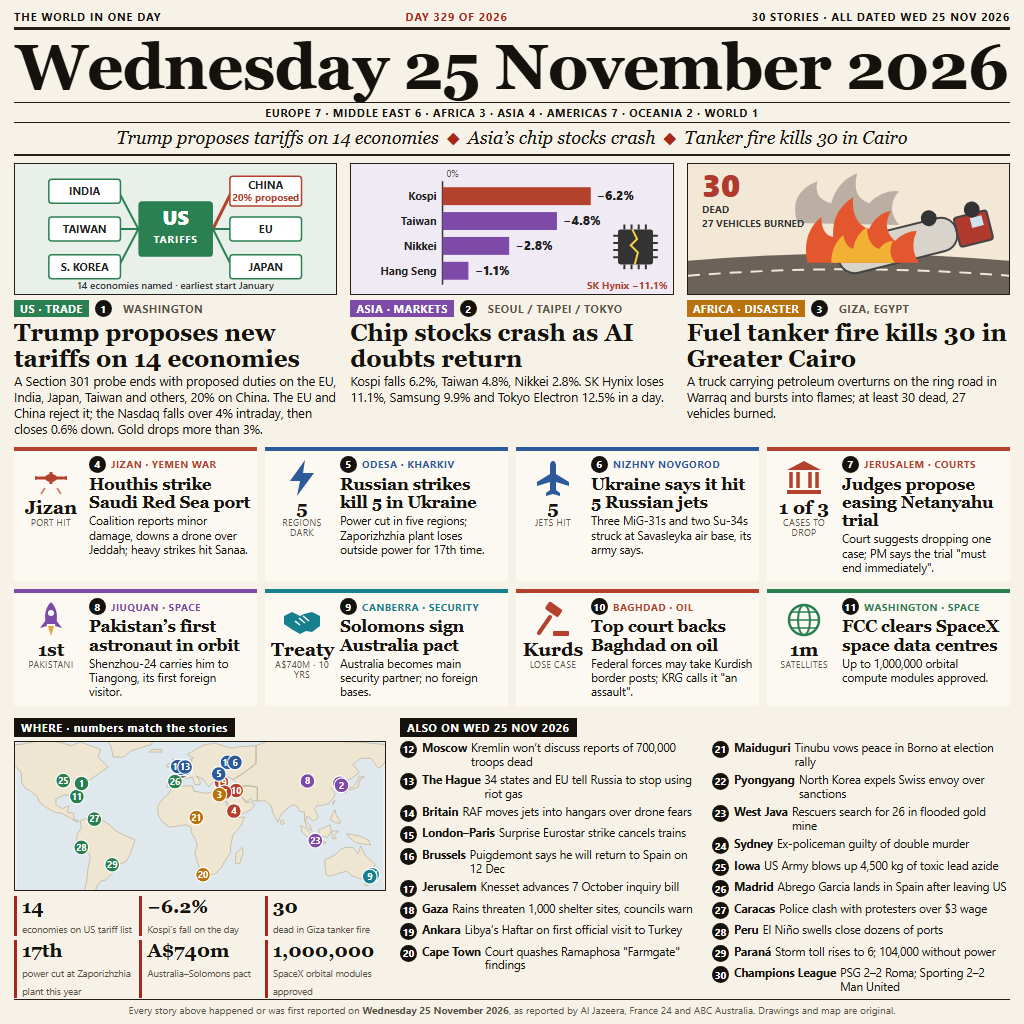
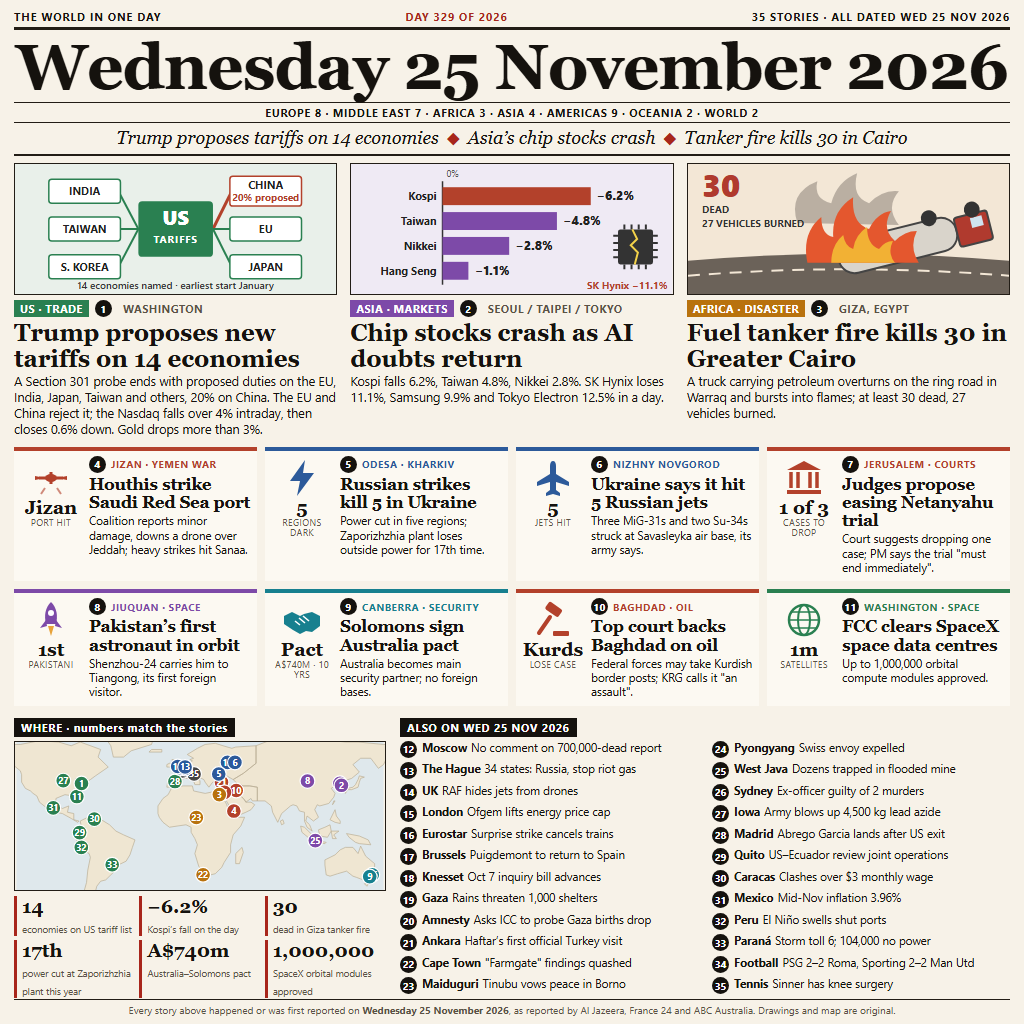
Five more dated stories as one-line briefs (35 in all); tidy the treaty card

diff --git a/src/page.html b/src/page.html
@@ -36,7 +36,7 @@ h1{font-family:Georgia,serif;font-size:64px;line-height:1;text-align:center;lett
 .list div{display:flex;align-items:flex-start;break-inside:avoid;margin-bottom:4.5px}
 .list b{margin-right:4px;white-space:nowrap}
 footer{position:absolute;left:14px;right:14px;bottom:7px;border-top:1px solid #221d16;padding-top:3px;font-size:10px;color:#5a5246;text-align:center}
-</style></head><body><header><div class="top"><span>THE WORLD IN ONE DAY</span><span class="red">DAY 329 OF 2026</span><span>30 STORIES · ALL DATED WED 25 NOV 2026</span></div><h1>Wednesday 25 November 2026</h1><div class="tally">EUROPE 7 · MIDDLE EAST 6 · AFRICA 3 · ASIA 4 · AMERICAS 7 · OCEANIA 2 · WORLD 1</div><div class="lede">Trump proposes tariffs on 14 economies<span class="dia">◆</span>Asia’s chip stocks crash<span class="dia">◆</span>Tanker fire kills 30 in Cairo</div></header><section class="heroes"><article class="hero"><div class="art"><svg viewBox="0 0 323 132" preserveAspectRatio="xMidYMid slice"><rect width="323" height="132" fill="#e9f0ea"/><line x1="199" y1="66" x2="218" y2="28" stroke="#b3412b" stroke-width="3"/><rect x="216" y="13" width="72" height="30" rx="3" fill="#fff" stroke="#b3412b" stroke-width="1.5"/><text x="252" y="26" font-size="11" font-family="Segoe UI,Arial,sans-serif" text-anchor="middle" font-weight="700" fill="#222">CHINA</text><text x="252" y="38" font-size="10" font-family="Segoe UI,Arial,sans-serif" text-anchor="middle" font-weight="700" fill="#b3412b">20% proposed</text><line x1="199" y1="66" x2="218" y2="66" stroke="#2a8051" stroke-width="2"/><rect x="216" y="54" width="72" height="24" rx="3" fill="#fff" stroke="#2a8051" stroke-width="1.5"/><text x="252" y="70" font-size="11" font-family="Segoe UI,Arial,sans-serif" text-anchor="middle" font-weight="700" fill="#222">EU</text><line x1="199" y1="66" x2="218" y2="104" stroke="#2a8051" stroke-width="2"/><rect x="216" y="92" width="72" height="24" rx="3" fill="#fff" stroke="#2a8051" stroke-width="1.5"/><text x="252" y="108" font-size="11" font-family="Segoe UI,Arial,sans-serif" text-anchor="middle" font-weight="700" fill="#222">JAPAN</text><line x1="124" y1="66" x2="104" y2="28" stroke="#2a8051" stroke-width="2"/><rect x="34" y="16" width="72" height="24" rx="3" fill="#fff" stroke="#2a8051" stroke-width="1.5"/><text x="70" y="32" font-size="11" font-family="Segoe UI,Arial,sans-serif" text-anchor="middle" font-weight="700" fill="#222">INDIA</text><line x1="124" y1="66" x2="104" y2="66" stroke="#2a8051" stroke-width="2"/><rect x="34" y="54" width="72" height="24" rx="3" fill="#fff" stroke="#2a8051" stroke-width="1.5"/><text x="70" y="70" font-size="11" font-family="Segoe UI,Arial,sans-serif" text-anchor="middle" font-weight="700" fill="#222">TAIWAN</text><line x1="124" y1="66" x2="104" y2="104" stroke="#2a8051" stroke-width="2"/><rect x="34" y="92" width="72" height="24" rx="3" fill="#fff" stroke="#2a8051" stroke-width="1.5"/><text x="70" y="108" font-size="11" font-family="Segoe UI,Arial,sans-serif" text-anchor="middle" font-weight="700" fill="#222">S. KOREA</text>
+</style></head><body><header><div class="top"><span>THE WORLD IN ONE DAY</span><span class="red">DAY 329 OF 2026</span><span>35 STORIES · ALL DATED WED 25 NOV 2026</span></div><h1>Wednesday 25 November 2026</h1><div class="tally">EUROPE 8 · MIDDLE EAST 7 · AFRICA 3 · ASIA 4 · AMERICAS 9 · OCEANIA 2 · WORLD 2</div><div class="lede">Trump proposes tariffs on 14 economies<span class="dia">◆</span>Asia’s chip stocks crash<span class="dia">◆</span>Tanker fire kills 30 in Cairo</div></header><section class="heroes"><article class="hero"><div class="art"><svg viewBox="0 0 323 132" preserveAspectRatio="xMidYMid slice"><rect width="323" height="132" fill="#e9f0ea"/><line x1="199" y1="66" x2="218" y2="28" stroke="#b3412b" stroke-width="3"/><rect x="216" y="13" width="72" height="30" rx="3" fill="#fff" stroke="#b3412b" stroke-width="1.5"/><text x="252" y="26" font-size="11" font-family="Segoe UI,Arial,sans-serif" text-anchor="middle" font-weight="700" fill="#222">CHINA</text><text x="252" y="38" font-size="10" font-family="Segoe UI,Arial,sans-serif" text-anchor="middle" font-weight="700" fill="#b3412b">20% proposed</text><line x1="199" y1="66" x2="218" y2="66" stroke="#2a8051" stroke-width="2"/><rect x="216" y="54" width="72" height="24" rx="3" fill="#fff" stroke="#2a8051" stroke-width="1.5"/><text x="252" y="70" font-size="11" font-family="Segoe UI,Arial,sans-serif" text-anchor="middle" font-weight="700" fill="#222">EU</text><line x1="199" y1="66" x2="218" y2="104" stroke="#2a8051" stroke-width="2"/><rect x="216" y="92" width="72" height="24" rx="3" fill="#fff" stroke="#2a8051" stroke-width="1.5"/><text x="252" y="108" font-size="11" font-family="Segoe UI,Arial,sans-serif" text-anchor="middle" font-weight="700" fill="#222">JAPAN</text><line x1="124" y1="66" x2="104" y2="28" stroke="#2a8051" stroke-width="2"/><rect x="34" y="16" width="72" height="24" rx="3" fill="#fff" stroke="#2a8051" stroke-width="1.5"/><text x="70" y="32" font-size="11" font-family="Segoe UI,Arial,sans-serif" text-anchor="middle" font-weight="700" fill="#222">INDIA</text><line x1="124" y1="66" x2="104" y2="66" stroke="#2a8051" stroke-width="2"/><rect x="34" y="54" width="72" height="24" rx="3" fill="#fff" stroke="#2a8051" stroke-width="1.5"/><text x="70" y="70" font-size="11" font-family="Segoe UI,Arial,sans-serif" text-anchor="middle" font-weight="700" fill="#222">TAIWAN</text><line x1="124" y1="66" x2="104" y2="104" stroke="#2a8051" stroke-width="2"/><rect x="34" y="92" width="72" height="24" rx="3" fill="#fff" stroke="#2a8051" stroke-width="1.5"/><text x="70" y="108" font-size="11" font-family="Segoe UI,Arial,sans-serif" text-anchor="middle" font-weight="700" fill="#222">S. KOREA</text>
       <rect x="124" y="38" width="75" height="56" rx="4" fill="#2a8051"/>
       <text x="161.5" y="62" font-size="20" font-family="Segoe UI,Arial,sans-serif" text-anchor="middle" font-weight="800" fill="#fff">US</text>
       <text x="161.5" y="80" font-size="10" font-family="Segoe UI,Arial,sans-serif" text-anchor="middle" font-weight="700" fill="#fff" letter-spacing="1">TARIFFS</text>
@@ -54,4 +54,4 @@ footer{position:absolute;left:14px;right:14px;bottom:7px;border-top:1px solid #2
     <path d="M144 100 q0 -18 12 -28 q2 12 10 14 q2 -14 14 -22 q0 18 12 22 q6 -8 14 -8 q-6 12 2 22z" fill="#f2b134"/>
     <text x="14" y="34" font-size="32" font-family="Segoe UI,Arial,sans-serif"  font-family="Georgia,serif" font-weight="800" fill="#b03a2e">30</text>
     <text x="14" y="50" font-size="10" font-family="Segoe UI,Arial,sans-serif" font-weight="700" fill="#333">DEAD</text>
-    <text x="14" y="64" font-size="10" font-family="Segoe UI,Arial,sans-serif" font-weight="700" fill="#333">27 VEHICLES BURNED</text></svg></div><div class="kick"><span class="tag" style="background:#b8720e">AFRICA · DISASTER</span><i class="n">3</i><span class="pl">GIZA, EGYPT</span></div><h2>Fuel tanker fire kills 30 in Greater Cairo</h2><p>A truck carrying petroleum overturns on the ring road in Warraq and bursts into flames; at least 30 dead, 27 vehicles burned.</p></article></section><section class="cards"><article class="card" style="border-top-color:#b3412b"><div class="ic"><svg viewBox="0 0 40 40"><path d="M8 20h24M20 14v12" stroke="#b3412b" stroke-width="3"/><path d="M4 18l10 2-10 2zM36 18l-10 2 10 2z" fill="#b3412b"/><ellipse cx="20" cy="20" rx="6" ry="4" fill="#b3412b"/><path d="M14 30l-4 6M26 30l4 6" stroke="#b3412b" stroke-width="2" opacity=".6"/></svg><b>Jizan</b><small>port hit</small></div><div><div class="k" style="color:#b3412b"><i class="n">4</i>Jizan · Yemen war</div><h3>Houthis strike Saudi Red Sea port</h3><p>Coalition reports minor damage, downs a drone over Jeddah; heavy strikes hit Sanaa.</p></div></article><article class="card" style="border-top-color:#2c5a9a"><div class="ic"><svg viewBox="0 0 40 40"><path d="M23 2L8 23h10l-3 15 17-23H21z" fill="#2c5a9a"/></svg><b>5</b><small>regions dark</small></div><div><div class="k" style="color:#2c5a9a"><i class="n">5</i>Odesa · Kharkiv</div><h3>Russian strikes kill 5 in Ukraine</h3><p>Power cut in five regions; Zaporizhzhia plant loses outside power for 17th time.</p></div></article><article class="card" style="border-top-color:#2c5a9a"><div class="ic"><svg viewBox="0 0 40 40"><path d="M20 3c2 0 3 2 3 5v8l13 8v4l-13-4v8l4 3v3l-7-2-7 2v-3l4-3v-8L4 28v-4l13-8V8c0-3 1-5 3-5z" fill="#2c5a9a"/></svg><b>5</b><small>jets hit</small></div><div><div class="k" style="color:#2c5a9a"><i class="n">6</i>Nizhny Novgorod</div><h3>Ukraine says it hit 5 Russian jets</h3><p>Three MiG-31s and two Su-34s struck at Savasleyka air base, its army says.</p></div></article><article class="card" style="border-top-color:#b3412b"><div class="ic"><svg viewBox="0 0 40 40"><path d="M20 3L3 12h34z" fill="#b3412b"/><path d="M7 14v16M14 14v16M26 14v16M33 14v16" stroke="#b3412b" stroke-width="3.5"/><path d="M3 32h34v4H3z" fill="#b3412b"/></svg><b>1 of 3</b><small>cases to drop</small></div><div><div class="k" style="color:#b3412b"><i class="n">7</i>Jerusalem · Courts</div><h3>Judges propose easing Netanyahu trial</h3><p>Court suggests dropping one case; PM says the trial "must end immediately".</p></div></article><article class="card" style="border-top-color:#7d4aa8"><div class="ic"><svg viewBox="0 0 40 40"><path d="M20 2c6 6 7 14 5 22h-10c-2-8-1-16 5-22z" fill="#7d4aa8"/><circle cx="20" cy="13" r="3" fill="#fff"/><path d="M15 20l-6 8 7-2zM25 20l6 8-7-2z" fill="#7d4aa8"/><path d="M17 26l3 10 3-10z" fill="#e8a33a"/></svg><b>1st</b><small>Pakistani</small></div><div><div class="k" style="color:#7d4aa8"><i class="n">8</i>Jiuquan · Space</div><h3>Pakistan’s first astronaut in orbit</h3><p>Shenzhou-24 carries him to Tiangong, its first foreign visitor.</p></div></article><article class="card" style="border-top-color:#17808f"><div class="ic"><svg viewBox="0 0 40 40"><path d="M2 16l8-4 8 4 4-2 8-2 8 4v10l-8 6-6-1-6 3-7-4-9-6z" fill="#17808f"/><path d="M13 21l5 4M17 18l6 5M21 16l6 5" stroke="#fff" stroke-width="1.6"/></svg><b>Treaty</b><small>A$740m · 10 yrs</small></div><div><div class="k" style="color:#17808f"><i class="n">9</i>Canberra · Security</div><h3>Solomons sign Australia pact</h3><p>Australia becomes main security partner; no foreign bases.</p></div></article><article class="card" style="border-top-color:#b3412b"><div class="ic"><svg viewBox="0 0 40 40"><rect x="13" y="5" width="16" height="9" rx="2" transform="rotate(35 21 9)" fill="#b3412b"/><path d="M17 17L6 33" stroke="#b3412b" stroke-width="4" stroke-linecap="round"/><rect x="20" y="31" width="16" height="5" rx="1" fill="#b3412b"/></svg><b>Kurds</b><small>lose case</small></div><div><div class="k" style="color:#b3412b"><i class="n">10</i>Baghdad · Oil</div><h3>Top court backs Baghdad on oil</h3><p>Federal forces may take Kurdish border posts; KRG calls it "an assault".</p></div></article><article class="card" style="border-top-color:#2a8051"><div class="ic"><svg viewBox="0 0 40 40"><circle cx="20" cy="20" r="15" fill="none" stroke="#2a8051" stroke-width="2.5"/><ellipse cx="20" cy="20" rx="6" ry="15" fill="none" stroke="#2a8051" stroke-width="2"/><path d="M5 20h30M8 12h24M8 28h24" stroke="#2a8051" stroke-width="1.6"/></svg><b>1m</b><small>satellites</small></div><div><div class="k" style="color:#2a8051"><i class="n">11</i>Washington · Space</div><h3>FCC clears SpaceX space data centres</h3><p>Up to 1,000,000 orbital compute modules approved.</p></div></article></section><section class="low"><div class="mapbox"><div class="bh">WHERE · numbers match the stories</div><svg viewBox="0 0 372 150" width="372" height="150"><rect width="372" height="150" fill="#dfe8ec"/><path d="M-51.7,7.6L-43.9,2.5L-15.5,2.5L3.9,2.5L23.3,-1.3L42.6,0.0L55.5,3.8L64.6,0.0L85.3,7.6L82.7,15.3L93.0,25.4L80.1,34.3L74.9,38.1L67.2,43.2L67.2,47.0L60.7,52.1L62.0,58.5L59.4,59.7L58.1,54.7L49.1,53.4L40.0,57.2L40.0,63.6L46.5,67.4L53.0,64.8L51.7,71.2L58.1,72.5L58.1,78.8L63.3,80.1L62.0,81.4L55.5,77.5L46.5,72.5L38.8,71.2L29.7,66.1L23.3,61.0L20.7,54.7L16.8,52.1L14.2,49.6L9.0,47.0L5.2,40.7L5.2,33.1L3.9,29.2L-3.9,22.9L-11.6,17.8L-24.5,14.0L-33.6,17.8L-41.3,17.8L-47.8,12.7ZM98.2,15.3L108.5,15.3L116.3,8.9L136.9,2.5L139.5,-6.4L126.6,-14.0L94.3,-12.7L77.5,-6.4L90.4,-3.8L95.6,3.8ZM64.6,80.1L72.3,76.3L84.0,77.5L94.3,83.9L100.8,90.3L108.5,94.1L120.1,99.2L117.5,106.8L115.0,114.4L111.1,120.8L103.3,124.6L102.0,128.4L95.6,134.7L90.4,139.8L85.3,141.1L81.4,146.2L80.1,151.3L76.2,156.4L77.5,161.4L72.3,158.9L68.5,151.3L71.0,142.4L72.3,129.7L74.9,116.9L73.6,113.1L67.2,109.3L60.7,99.2L62.0,92.8L65.9,86.4ZM152.4,45.8L153.7,36.9L162.8,36.9L164.0,33.1L160.2,30.5L167.9,26.7L171.8,24.2L175.7,21.6L178.3,19.1L175.7,17.8L179.5,16.5L173.1,12.7L183.4,6.4L191.2,2.5L201.5,1.3L209.3,3.8L218.3,6.4L222.2,5.1L242.8,3.8L242.8,21.6L229.9,31.8L219.6,38.1L213.1,34.3L204.1,33.1L202.8,39.4L198.9,40.7L195.0,45.8L191.2,40.7L189.9,38.1L182.1,34.3L186.0,39.4L186.0,43.2L180.8,43.2L178.3,35.6L173.1,36.9L169.2,36.9L165.3,43.2L158.9,45.8ZM158.9,28.0L166.6,26.7L167.9,24.2L162.8,20.3L161.5,17.8L157.6,17.8L158.9,21.6L161.5,22.9L158.9,25.4ZM152.4,25.4L157.6,25.4L157.6,21.6L155.0,21.6L152.4,22.9ZM134.3,10.2L147.3,10.2L147.3,7.6L136.9,7.6ZM143.4,72.5L143.4,64.8L148.5,57.2L153.7,53.4L157.6,45.8L169.2,44.5L178.3,44.5L179.5,49.6L191.2,52.1L197.6,50.8L206.7,52.1L209.3,55.9L213.1,63.6L215.7,71.2L220.9,76.3L231.2,76.3L227.3,85.2L219.6,94.1L217.0,104.2L217.0,111.9L210.5,122.0L208.0,127.1L201.5,133.5L191.2,136.0L188.6,132.2L184.7,125.8L180.8,113.1L183.4,104.2L180.8,97.9L177.0,91.5L177.0,86.4L171.8,83.9L162.8,85.2L155.0,86.4L148.5,81.4L144.7,76.3ZM222.2,123.3L226.0,123.3L229.9,111.9L228.6,106.8L222.2,113.1ZM209.3,55.9L210.5,50.8L211.8,45.8L219.6,44.5L223.5,41.9L229.9,44.5L236.4,44.5L244.1,45.8L244.1,59.7L239.0,59.7L237.7,57.2L232.5,61.0L231.2,58.5L227.3,54.7L229.9,57.2L232.5,61.0L237.7,61.0L241.5,63.6L237.7,68.6L232.5,71.2L223.5,75.0L220.9,72.5L215.7,64.8L210.5,55.9ZM219.6,38.1L229.9,31.8L242.8,21.6L242.8,3.8L255.8,-1.3L268.7,-1.3L294.5,-6.4L310.0,-2.5L333.3,0.0L346.2,0.0L372.0,2.5L384.9,2.5L397.8,5.1L397.8,8.9L387.5,12.7L375.9,15.3L372.0,22.9L366.8,26.7L359.1,16.5L348.8,16.5L341.0,22.9L347.5,30.5L339.7,36.9L332.0,39.4L332.0,47.0L328.1,47.0L328.1,41.9L321.6,40.7L322.9,44.5L319.0,47.0L322.9,52.1L321.6,55.9L316.5,62.3L307.4,64.8L304.8,63.6L302.3,68.6L306.1,76.3L301.0,80.1L294.5,75.0L293.2,80.1L297.1,83.9L299.7,90.3L294.5,86.4L291.9,80.1L291.9,71.2L286.8,69.9L284.2,64.8L280.3,63.6L277.7,64.8L268.7,72.5L264.8,81.4L259.6,71.2L258.3,64.8L251.9,59.7L244.1,59.7L244.1,45.8L236.4,44.5L229.9,44.5L223.5,41.9ZM333.3,52.1L335.8,48.3L339.7,48.3L346.2,45.8L347.5,40.7L348.8,36.9L352.6,35.6L347.5,34.3L346.2,38.1L343.6,43.2L341.0,45.8L335.8,47.0L333.3,48.3ZM268.7,83.9L271.3,82.6L270.0,78.8L267.4,80.1ZM320.3,63.6L322.9,59.7L321.6,59.7ZM288.0,85.2L291.9,86.4L299.7,94.1L302.3,99.2L297.1,97.9L289.3,91.5ZM301.0,99.2L313.9,101.7L312.6,103.0L302.3,101.7ZM306.1,89.0L312.6,86.4L317.8,83.9L319.0,90.3L315.2,96.6L307.4,95.3ZM319.0,90.3L326.8,90.3L321.6,94.1L324.2,97.9L320.3,97.9ZM317.8,78.8L322.9,68.6L324.2,75.0L328.1,80.1L328.1,82.6L322.9,81.4ZM334.5,92.8L347.5,95.3L356.5,99.2L359.1,104.2L347.5,103.0L343.6,101.7L337.1,96.6ZM312.6,119.5L312.6,124.6L313.9,134.7L317.8,136.0L325.5,133.5L334.5,130.9L341.0,136.0L344.9,137.3L351.3,139.8L356.5,139.8L359.1,137.3L363.0,129.7L363.0,123.3L353.9,115.7L348.8,105.5L346.2,113.1L341.0,106.8L333.3,106.8L328.1,109.3L322.9,114.4ZM352.6,143.6L356.5,143.6L355.2,146.2ZM387.5,134.7L391.4,138.6L395.3,139.8L391.4,143.6L387.5,143.6L388.8,139.8ZM387.5,143.6L390.1,144.9L386.2,148.7L381.0,150.0L384.9,146.2Z" fill="#efe6d2" stroke="#b9ad94" stroke-width=".7"/><g transform="translate(168.2,29.4)"><circle r="7.5" fill="#444" stroke="#fff" stroke-width="1.2"/><text y="3.3" text-anchor="middle" font-size="9" font-weight="700" fill="#fff">30</text></g><g transform="translate(97.0,124.4)"><circle r="7.5" fill="#2a8051" stroke="#fff" stroke-width="1.2"/><text y="3.3" text-anchor="middle" font-size="9" font-weight="700" fill="#fff">29</text></g><g transform="translate(65.7,106.8)"><circle r="7.5" fill="#2a8051" stroke="#fff" stroke-width="1.2"/><text y="3.3" text-anchor="middle" font-size="9" font-weight="700" fill="#fff">28</text></g><g transform="translate(78.9,78.2)"><circle r="7.5" fill="#2a8051" stroke="#fff" stroke-width="1.2"/><text y="3.3" text-anchor="middle" font-size="9" font-weight="700" fill="#fff">27</text></g><g transform="translate(160.6,40.1)"><circle r="7.5" fill="#2a8051" stroke="#fff" stroke-width="1.2"/><text y="3.3" text-anchor="middle" font-size="9" font-weight="700" fill="#fff">26</text></g><g transform="translate(47.4,39.2)"><circle r="7.5" fill="#2a8051" stroke="#fff" stroke-width="1.2"/><text y="3.3" text-anchor="middle" font-size="9" font-weight="700" fill="#fff">25</text></g><g transform="translate(360.6,134.6)"><circle r="7.5" fill="#17808f" stroke="#fff" stroke-width="1.2"/><text y="3.3" text-anchor="middle" font-size="9" font-weight="700" fill="#fff">24</text></g><g transform="translate(302.9,99.9)"><circle r="7.5" fill="#7d4aa8" stroke="#fff" stroke-width="1.2"/><text y="3.3" text-anchor="middle" font-size="9" font-weight="700" fill="#fff">23</text></g><g transform="translate(327.8,41.9)"><circle r="7.5" fill="#7d4aa8" stroke="#fff" stroke-width="1.2"/><text y="3.3" text-anchor="middle" font-size="9" font-weight="700" fill="#fff">22</text></g><g transform="translate(182.3,76.5)"><circle r="7.5" fill="#b8720e" stroke="#fff" stroke-width="1.2"/><text y="3.3" text-anchor="middle" font-size="9" font-weight="700" fill="#fff">21</text></g><g transform="translate(189.1,134.6)"><circle r="7.5" fill="#b8720e" stroke="#fff" stroke-width="1.2"/><text y="3.3" text-anchor="middle" font-size="9" font-weight="700" fill="#fff">20</text></g><g transform="translate(207.8,40.8)"><circle r="7.5" fill="#b3412b" stroke="#fff" stroke-width="1.2"/><text y="3.3" text-anchor="middle" font-size="9" font-weight="700" fill="#fff">19</text></g><g transform="translate(209.8,51.5)"><circle r="7.5" fill="#b3412b" stroke="#fff" stroke-width="1.2"/><text y="3.3" text-anchor="middle" font-size="9" font-weight="700" fill="#fff">18</text></g><g transform="translate(210.8,51.1)"><circle r="7.5" fill="#b3412b" stroke="#fff" stroke-width="1.2"/><text y="3.3" text-anchor="middle" font-size="9" font-weight="700" fill="#fff">17</text></g><g transform="translate(171.0,26.9)"><circle r="7.5" fill="#2c5a9a" stroke="#fff" stroke-width="1.2"/><text y="3.3" text-anchor="middle" font-size="9" font-weight="700" fill="#fff">16</text></g><g transform="translate(167.3,26.7)"><circle r="7.5" fill="#2c5a9a" stroke="#fff" stroke-width="1.2"/><text y="3.3" text-anchor="middle" font-size="9" font-weight="700" fill="#fff">15</text></g><g transform="translate(163.4,24.8)"><circle r="7.5" fill="#2c5a9a" stroke="#fff" stroke-width="1.2"/><text y="3.3" text-anchor="middle" font-size="9" font-weight="700" fill="#fff">14</text></g><g transform="translate(170.9,25.3)"><circle r="7.5" fill="#2c5a9a" stroke="#fff" stroke-width="1.2"/><text y="3.3" text-anchor="middle" font-size="9" font-weight="700" fill="#fff">13</text></g><g transform="translate(213.9,20.7)"><circle r="7.5" fill="#2c5a9a" stroke="#fff" stroke-width="1.2"/><text y="3.3" text-anchor="middle" font-size="9" font-weight="700" fill="#fff">12</text></g><g transform="translate(61.2,55.3)"><circle r="7.5" fill="#2a8051" stroke="#fff" stroke-width="1.2"/><text y="3.3" text-anchor="middle" font-size="9" font-weight="700" fill="#fff">11</text></g><g transform="translate(222.7,49.2)"><circle r="7.5" fill="#b3412b" stroke="#fff" stroke-width="1.2"/><text y="3.3" text-anchor="middle" font-size="9" font-weight="700" fill="#fff">10</text></g><g transform="translate(358.0,136.4)"><circle r="7.5" fill="#17808f" stroke="#fff" stroke-width="1.2"/><text y="3.3" text-anchor="middle" font-size="9" font-weight="700" fill="#fff">9</text></g><g transform="translate(294.9,39.5)"><circle r="7.5" fill="#7d4aa8" stroke="#fff" stroke-width="1.2"/><text y="3.3" text-anchor="middle" font-size="9" font-weight="700" fill="#fff">8</text></g><g transform="translate(210.8,51.1)"><circle r="7.5" fill="#b3412b" stroke="#fff" stroke-width="1.2"/><text y="3.3" text-anchor="middle" font-size="9" font-weight="700" fill="#fff">7</text></g><g transform="translate(221.4,20.7)"><circle r="7.5" fill="#2c5a9a" stroke="#fff" stroke-width="1.2"/><text y="3.3" text-anchor="middle" font-size="9" font-weight="700" fill="#fff">6</text></g><g transform="translate(205.0,32.4)"><circle r="7.5" fill="#2c5a9a" stroke="#fff" stroke-width="1.2"/><text y="3.3" text-anchor="middle" font-size="9" font-weight="700" fill="#fff">5</text></g><g transform="translate(220.3,70.0)"><circle r="7.5" fill="#b3412b" stroke="#fff" stroke-width="1.2"/><text y="3.3" text-anchor="middle" font-size="9" font-weight="700" fill="#fff">4</text></g><g transform="translate(205.6,53.3)"><circle r="7.5" fill="#b8720e" stroke="#fff" stroke-width="1.2"/><text y="3.3" text-anchor="middle" font-size="9" font-weight="700" fill="#fff">3</text></g><g transform="translate(329.4,43.9)"><circle r="7.5" fill="#7d4aa8" stroke="#fff" stroke-width="1.2"/><text y="3.3" text-anchor="middle" font-size="9" font-weight="700" fill="#fff">2</text></g><g transform="translate(65.9,42.1)"><circle r="7.5" fill="#2a8051" stroke="#fff" stroke-width="1.2"/><text y="3.3" text-anchor="middle" font-size="9" font-weight="700" fill="#fff">1</text></g></svg><div class="nums"><div><b>14</b><span>economies on US tariff list</span></div><div><b>−6.2%</b><span>Kospi’s fall on the day</span></div><div><b>30</b><span>dead in Giza tanker fire</span></div><div><b>17th</b><span>power cut at Zaporizhzhia plant this year</span></div><div><b>A$740m</b><span>Australia–Solomons pact</span></div><div><b>1,000,000</b><span>SpaceX orbital modules approved</span></div></div></div><div class="briefs"><div class="bh">ALSO ON WED 25 NOV 2026</div><div class="list"><div><i class="n">12</i><b>Moscow</b> Kremlin won’t discuss reports of 700,000 troops dead</div><div><i class="n">13</i><b>The Hague</b> 34 states and EU tell Russia to stop using riot gas</div><div><i class="n">14</i><b>Britain</b> RAF moves jets into hangars over drone fears</div><div><i class="n">15</i><b>London–Paris</b> Surprise Eurostar strike cancels trains</div><div><i class="n">16</i><b>Brussels</b> Puigdemont says he will return to Spain on 12 Dec</div><div><i class="n">17</i><b>Jerusalem</b> Knesset advances 7 October inquiry bill</div><div><i class="n">18</i><b>Gaza</b> Rains threaten 1,000 shelter sites, councils warn</div><div><i class="n">19</i><b>Ankara</b> Libya’s Haftar on first official visit to Turkey</div><div><i class="n">20</i><b>Cape Town</b> Court quashes Ramaphosa "Farmgate" findings</div><div><i class="n">21</i><b>Maiduguri</b> Tinubu vows peace in Borno at election rally</div><div><i class="n">22</i><b>Pyongyang</b> North Korea expels Swiss envoy over sanctions</div><div><i class="n">23</i><b>West Java</b> Rescuers search for 26 in flooded gold mine</div><div><i class="n">24</i><b>Sydney</b> Ex-policeman guilty of double murder</div><div><i class="n">25</i><b>Iowa</b> US Army blows up 4,500 kg of toxic lead azide</div><div><i class="n">26</i><b>Madrid</b> Abrego Garcia lands in Spain after leaving US</div><div><i class="n">27</i><b>Caracas</b> Police clash with protesters over $3 wage</div><div><i class="n">28</i><b>Peru</b> El Niño swells close dozens of ports</div><div><i class="n">29</i><b>Paraná</b> Storm toll rises to 6; 104,000 without power</div><div><i class="n">30</i><b>Champions League</b> PSG 2–2 Roma; Sporting 2–2 Man United</div></div></div></section><footer>Every story above happened or was first reported on <b>Wednesday 25 November 2026</b>, as reported by Al Jazeera, France 24 and ABC Australia. Drawings and map are original.</footer></body></html>
+    <text x="14" y="64" font-size="10" font-family="Segoe UI,Arial,sans-serif" font-weight="700" fill="#333">27 VEHICLES BURNED</text></svg></div><div class="kick"><span class="tag" style="background:#b8720e">AFRICA · DISASTER</span><i class="n">3</i><span class="pl">GIZA, EGYPT</span></div><h2>Fuel tanker fire kills 30 in Greater Cairo</h2><p>A truck carrying petroleum overturns on the ring road in Warraq and bursts into flames; at least 30 dead, 27 vehicles burned.</p></article></section><section class="cards"><article class="card" style="border-top-color:#b3412b"><div class="ic"><svg viewBox="0 0 40 40"><path d="M8 20h24M20 14v12" stroke="#b3412b" stroke-width="3"/><path d="M4 18l10 2-10 2zM36 18l-10 2 10 2z" fill="#b3412b"/><ellipse cx="20" cy="20" rx="6" ry="4" fill="#b3412b"/><path d="M14 30l-4 6M26 30l4 6" stroke="#b3412b" stroke-width="2" opacity=".6"/></svg><b>Jizan</b><small>port hit</small></div><div><div class="k" style="color:#b3412b"><i class="n">4</i>Jizan · Yemen war</div><h3>Houthis strike Saudi Red Sea port</h3><p>Coalition reports minor damage, downs a drone over Jeddah; heavy strikes hit Sanaa.</p></div></article><article class="card" style="border-top-color:#2c5a9a"><div class="ic"><svg viewBox="0 0 40 40"><path d="M23 2L8 23h10l-3 15 17-23H21z" fill="#2c5a9a"/></svg><b>5</b><small>regions dark</small></div><div><div class="k" style="color:#2c5a9a"><i class="n">5</i>Odesa · Kharkiv</div><h3>Russian strikes kill 5 in Ukraine</h3><p>Power cut in five regions; Zaporizhzhia plant loses outside power for 17th time.</p></div></article><article class="card" style="border-top-color:#2c5a9a"><div class="ic"><svg viewBox="0 0 40 40"><path d="M20 3c2 0 3 2 3 5v8l13 8v4l-13-4v8l4 3v3l-7-2-7 2v-3l4-3v-8L4 28v-4l13-8V8c0-3 1-5 3-5z" fill="#2c5a9a"/></svg><b>5</b><small>jets hit</small></div><div><div class="k" style="color:#2c5a9a"><i class="n">6</i>Nizhny Novgorod</div><h3>Ukraine says it hit 5 Russian jets</h3><p>Three MiG-31s and two Su-34s struck at Savasleyka air base, its army says.</p></div></article><article class="card" style="border-top-color:#b3412b"><div class="ic"><svg viewBox="0 0 40 40"><path d="M20 3L3 12h34z" fill="#b3412b"/><path d="M7 14v16M14 14v16M26 14v16M33 14v16" stroke="#b3412b" stroke-width="3.5"/><path d="M3 32h34v4H3z" fill="#b3412b"/></svg><b>1 of 3</b><small>cases to drop</small></div><div><div class="k" style="color:#b3412b"><i class="n">7</i>Jerusalem · Courts</div><h3>Judges propose easing Netanyahu trial</h3><p>Court suggests dropping one case; PM says the trial "must end immediately".</p></div></article><article class="card" style="border-top-color:#7d4aa8"><div class="ic"><svg viewBox="0 0 40 40"><path d="M20 2c6 6 7 14 5 22h-10c-2-8-1-16 5-22z" fill="#7d4aa8"/><circle cx="20" cy="13" r="3" fill="#fff"/><path d="M15 20l-6 8 7-2zM25 20l6 8-7-2z" fill="#7d4aa8"/><path d="M17 26l3 10 3-10z" fill="#e8a33a"/></svg><b>1st</b><small>Pakistani</small></div><div><div class="k" style="color:#7d4aa8"><i class="n">8</i>Jiuquan · Space</div><h3>Pakistan’s first astronaut in orbit</h3><p>Shenzhou-24 carries him to Tiangong, its first foreign visitor.</p></div></article><article class="card" style="border-top-color:#17808f"><div class="ic"><svg viewBox="0 0 40 40"><path d="M2 16l8-4 8 4 4-2 8-2 8 4v10l-8 6-6-1-6 3-7-4-9-6z" fill="#17808f"/><path d="M13 21l5 4M17 18l6 5M21 16l6 5" stroke="#fff" stroke-width="1.6"/></svg><b>Pact</b><small>A$740m · 10 yrs</small></div><div><div class="k" style="color:#17808f"><i class="n">9</i>Canberra · Security</div><h3>Solomons sign Australia pact</h3><p>Australia becomes main security partner; no foreign bases.</p></div></article><article class="card" style="border-top-color:#b3412b"><div class="ic"><svg viewBox="0 0 40 40"><rect x="13" y="5" width="16" height="9" rx="2" transform="rotate(35 21 9)" fill="#b3412b"/><path d="M17 17L6 33" stroke="#b3412b" stroke-width="4" stroke-linecap="round"/><rect x="20" y="31" width="16" height="5" rx="1" fill="#b3412b"/></svg><b>Kurds</b><small>lose case</small></div><div><div class="k" style="color:#b3412b"><i class="n">10</i>Baghdad · Oil</div><h3>Top court backs Baghdad on oil</h3><p>Federal forces may take Kurdish border posts; KRG calls it "an assault".</p></div></article><article class="card" style="border-top-color:#2a8051"><div class="ic"><svg viewBox="0 0 40 40"><circle cx="20" cy="20" r="15" fill="none" stroke="#2a8051" stroke-width="2.5"/><ellipse cx="20" cy="20" rx="6" ry="15" fill="none" stroke="#2a8051" stroke-width="2"/><path d="M5 20h30M8 12h24M8 28h24" stroke="#2a8051" stroke-width="1.6"/></svg><b>1m</b><small>satellites</small></div><div><div class="k" style="color:#2a8051"><i class="n">11</i>Washington · Space</div><h3>FCC clears SpaceX space data centres</h3><p>Up to 1,000,000 orbital compute modules approved.</p></div></article></section><section class="low"><div class="mapbox"><div class="bh">WHERE · numbers match the stories</div><svg viewBox="0 0 372 150" width="372" height="150"><rect width="372" height="150" fill="#dfe8ec"/><path d="M-51.7,7.6L-43.9,2.5L-15.5,2.5L3.9,2.5L23.3,-1.3L42.6,0.0L55.5,3.8L64.6,0.0L85.3,7.6L82.7,15.3L93.0,25.4L80.1,34.3L74.9,38.1L67.2,43.2L67.2,47.0L60.7,52.1L62.0,58.5L59.4,59.7L58.1,54.7L49.1,53.4L40.0,57.2L40.0,63.6L46.5,67.4L53.0,64.8L51.7,71.2L58.1,72.5L58.1,78.8L63.3,80.1L62.0,81.4L55.5,77.5L46.5,72.5L38.8,71.2L29.7,66.1L23.3,61.0L20.7,54.7L16.8,52.1L14.2,49.6L9.0,47.0L5.2,40.7L5.2,33.1L3.9,29.2L-3.9,22.9L-11.6,17.8L-24.5,14.0L-33.6,17.8L-41.3,17.8L-47.8,12.7ZM98.2,15.3L108.5,15.3L116.3,8.9L136.9,2.5L139.5,-6.4L126.6,-14.0L94.3,-12.7L77.5,-6.4L90.4,-3.8L95.6,3.8ZM64.6,80.1L72.3,76.3L84.0,77.5L94.3,83.9L100.8,90.3L108.5,94.1L120.1,99.2L117.5,106.8L115.0,114.4L111.1,120.8L103.3,124.6L102.0,128.4L95.6,134.7L90.4,139.8L85.3,141.1L81.4,146.2L80.1,151.3L76.2,156.4L77.5,161.4L72.3,158.9L68.5,151.3L71.0,142.4L72.3,129.7L74.9,116.9L73.6,113.1L67.2,109.3L60.7,99.2L62.0,92.8L65.9,86.4ZM152.4,45.8L153.7,36.9L162.8,36.9L164.0,33.1L160.2,30.5L167.9,26.7L171.8,24.2L175.7,21.6L178.3,19.1L175.7,17.8L179.5,16.5L173.1,12.7L183.4,6.4L191.2,2.5L201.5,1.3L209.3,3.8L218.3,6.4L222.2,5.1L242.8,3.8L242.8,21.6L229.9,31.8L219.6,38.1L213.1,34.3L204.1,33.1L202.8,39.4L198.9,40.7L195.0,45.8L191.2,40.7L189.9,38.1L182.1,34.3L186.0,39.4L186.0,43.2L180.8,43.2L178.3,35.6L173.1,36.9L169.2,36.9L165.3,43.2L158.9,45.8ZM158.9,28.0L166.6,26.7L167.9,24.2L162.8,20.3L161.5,17.8L157.6,17.8L158.9,21.6L161.5,22.9L158.9,25.4ZM152.4,25.4L157.6,25.4L157.6,21.6L155.0,21.6L152.4,22.9ZM134.3,10.2L147.3,10.2L147.3,7.6L136.9,7.6ZM143.4,72.5L143.4,64.8L148.5,57.2L153.7,53.4L157.6,45.8L169.2,44.5L178.3,44.5L179.5,49.6L191.2,52.1L197.6,50.8L206.7,52.1L209.3,55.9L213.1,63.6L215.7,71.2L220.9,76.3L231.2,76.3L227.3,85.2L219.6,94.1L217.0,104.2L217.0,111.9L210.5,122.0L208.0,127.1L201.5,133.5L191.2,136.0L188.6,132.2L184.7,125.8L180.8,113.1L183.4,104.2L180.8,97.9L177.0,91.5L177.0,86.4L171.8,83.9L162.8,85.2L155.0,86.4L148.5,81.4L144.7,76.3ZM222.2,123.3L226.0,123.3L229.9,111.9L228.6,106.8L222.2,113.1ZM209.3,55.9L210.5,50.8L211.8,45.8L219.6,44.5L223.5,41.9L229.9,44.5L236.4,44.5L244.1,45.8L244.1,59.7L239.0,59.7L237.7,57.2L232.5,61.0L231.2,58.5L227.3,54.7L229.9,57.2L232.5,61.0L237.7,61.0L241.5,63.6L237.7,68.6L232.5,71.2L223.5,75.0L220.9,72.5L215.7,64.8L210.5,55.9ZM219.6,38.1L229.9,31.8L242.8,21.6L242.8,3.8L255.8,-1.3L268.7,-1.3L294.5,-6.4L310.0,-2.5L333.3,0.0L346.2,0.0L372.0,2.5L384.9,2.5L397.8,5.1L397.8,8.9L387.5,12.7L375.9,15.3L372.0,22.9L366.8,26.7L359.1,16.5L348.8,16.5L341.0,22.9L347.5,30.5L339.7,36.9L332.0,39.4L332.0,47.0L328.1,47.0L328.1,41.9L321.6,40.7L322.9,44.5L319.0,47.0L322.9,52.1L321.6,55.9L316.5,62.3L307.4,64.8L304.8,63.6L302.3,68.6L306.1,76.3L301.0,80.1L294.5,75.0L293.2,80.1L297.1,83.9L299.7,90.3L294.5,86.4L291.9,80.1L291.9,71.2L286.8,69.9L284.2,64.8L280.3,63.6L277.7,64.8L268.7,72.5L264.8,81.4L259.6,71.2L258.3,64.8L251.9,59.7L244.1,59.7L244.1,45.8L236.4,44.5L229.9,44.5L223.5,41.9ZM333.3,52.1L335.8,48.3L339.7,48.3L346.2,45.8L347.5,40.7L348.8,36.9L352.6,35.6L347.5,34.3L346.2,38.1L343.6,43.2L341.0,45.8L335.8,47.0L333.3,48.3ZM268.7,83.9L271.3,82.6L270.0,78.8L267.4,80.1ZM320.3,63.6L322.9,59.7L321.6,59.7ZM288.0,85.2L291.9,86.4L299.7,94.1L302.3,99.2L297.1,97.9L289.3,91.5ZM301.0,99.2L313.9,101.7L312.6,103.0L302.3,101.7ZM306.1,89.0L312.6,86.4L317.8,83.9L319.0,90.3L315.2,96.6L307.4,95.3ZM319.0,90.3L326.8,90.3L321.6,94.1L324.2,97.9L320.3,97.9ZM317.8,78.8L322.9,68.6L324.2,75.0L328.1,80.1L328.1,82.6L322.9,81.4ZM334.5,92.8L347.5,95.3L356.5,99.2L359.1,104.2L347.5,103.0L343.6,101.7L337.1,96.6ZM312.6,119.5L312.6,124.6L313.9,134.7L317.8,136.0L325.5,133.5L334.5,130.9L341.0,136.0L344.9,137.3L351.3,139.8L356.5,139.8L359.1,137.3L363.0,129.7L363.0,123.3L353.9,115.7L348.8,105.5L346.2,113.1L341.0,106.8L333.3,106.8L328.1,109.3L322.9,114.4ZM352.6,143.6L356.5,143.6L355.2,146.2ZM387.5,134.7L391.4,138.6L395.3,139.8L391.4,143.6L387.5,143.6L388.8,139.8ZM387.5,143.6L390.1,144.9L386.2,148.7L381.0,150.0L384.9,146.2Z" fill="#efe6d2" stroke="#b9ad94" stroke-width=".7"/><g transform="translate(180.0,32.4)"><circle r="7.5" fill="#444" stroke="#fff" stroke-width="1.2"/><text y="3.3" text-anchor="middle" font-size="9" font-weight="700" fill="#fff">35</text></g><g transform="translate(168.2,29.4)"><circle r="7.5" fill="#444" stroke="#fff" stroke-width="1.2"/><text y="3.3" text-anchor="middle" font-size="9" font-weight="700" fill="#fff">34</text></g><g transform="translate(97.0,124.4)"><circle r="7.5" fill="#2a8051" stroke="#fff" stroke-width="1.2"/><text y="3.3" text-anchor="middle" font-size="9" font-weight="700" fill="#fff">33</text></g><g transform="translate(65.7,106.8)"><circle r="7.5" fill="#2a8051" stroke="#fff" stroke-width="1.2"/><text y="3.3" text-anchor="middle" font-size="9" font-weight="700" fill="#fff">32</text></g><g transform="translate(37.3,66.8)"><circle r="7.5" fill="#2a8051" stroke="#fff" stroke-width="1.2"/><text y="3.3" text-anchor="middle" font-size="9" font-weight="700" fill="#fff">31</text></g><g transform="translate(78.9,78.2)"><circle r="7.5" fill="#2a8051" stroke="#fff" stroke-width="1.2"/><text y="3.3" text-anchor="middle" font-size="9" font-weight="700" fill="#fff">30</text></g><g transform="translate(64.0,91.8)"><circle r="7.5" fill="#2a8051" stroke="#fff" stroke-width="1.2"/><text y="3.3" text-anchor="middle" font-size="9" font-weight="700" fill="#fff">29</text></g><g transform="translate(160.6,40.1)"><circle r="7.5" fill="#2a8051" stroke="#fff" stroke-width="1.2"/><text y="3.3" text-anchor="middle" font-size="9" font-weight="700" fill="#fff">28</text></g><g transform="translate(47.4,39.2)"><circle r="7.5" fill="#2a8051" stroke="#fff" stroke-width="1.2"/><text y="3.3" text-anchor="middle" font-size="9" font-weight="700" fill="#fff">27</text></g><g transform="translate(360.6,134.6)"><circle r="7.5" fill="#17808f" stroke="#fff" stroke-width="1.2"/><text y="3.3" text-anchor="middle" font-size="9" font-weight="700" fill="#fff">26</text></g><g transform="translate(302.9,99.9)"><circle r="7.5" fill="#7d4aa8" stroke="#fff" stroke-width="1.2"/><text y="3.3" text-anchor="middle" font-size="9" font-weight="700" fill="#fff">25</text></g><g transform="translate(327.8,41.9)"><circle r="7.5" fill="#7d4aa8" stroke="#fff" stroke-width="1.2"/><text y="3.3" text-anchor="middle" font-size="9" font-weight="700" fill="#fff">24</text></g><g transform="translate(182.3,76.5)"><circle r="7.5" fill="#b8720e" stroke="#fff" stroke-width="1.2"/><text y="3.3" text-anchor="middle" font-size="9" font-weight="700" fill="#fff">23</text></g><g transform="translate(189.1,134.6)"><circle r="7.5" fill="#b8720e" stroke="#fff" stroke-width="1.2"/><text y="3.3" text-anchor="middle" font-size="9" font-weight="700" fill="#fff">22</text></g><g transform="translate(207.8,40.8)"><circle r="7.5" fill="#b3412b" stroke="#fff" stroke-width="1.2"/><text y="3.3" text-anchor="middle" font-size="9" font-weight="700" fill="#fff">21</text></g><g transform="translate(209.6,51.7)"><circle r="7.5" fill="#b3412b" stroke="#fff" stroke-width="1.2"/><text y="3.3" text-anchor="middle" font-size="9" font-weight="700" fill="#fff">20</text></g><g transform="translate(209.8,51.5)"><circle r="7.5" fill="#b3412b" stroke="#fff" stroke-width="1.2"/><text y="3.3" text-anchor="middle" font-size="9" font-weight="700" fill="#fff">19</text></g><g transform="translate(210.8,51.1)"><circle r="7.5" fill="#b3412b" stroke="#fff" stroke-width="1.2"/><text y="3.3" text-anchor="middle" font-size="9" font-weight="700" fill="#fff">18</text></g><g transform="translate(171.0,26.9)"><circle r="7.5" fill="#2c5a9a" stroke="#fff" stroke-width="1.2"/><text y="3.3" text-anchor="middle" font-size="9" font-weight="700" fill="#fff">17</text></g><g transform="translate(167.3,26.7)"><circle r="7.5" fill="#2c5a9a" stroke="#fff" stroke-width="1.2"/><text y="3.3" text-anchor="middle" font-size="9" font-weight="700" fill="#fff">16</text></g><g transform="translate(165.2,26.1)"><circle r="7.5" fill="#2c5a9a" stroke="#fff" stroke-width="1.2"/><text y="3.3" text-anchor="middle" font-size="9" font-weight="700" fill="#fff">15</text></g><g transform="translate(163.4,24.8)"><circle r="7.5" fill="#2c5a9a" stroke="#fff" stroke-width="1.2"/><text y="3.3" text-anchor="middle" font-size="9" font-weight="700" fill="#fff">14</text></g><g transform="translate(170.9,25.3)"><circle r="7.5" fill="#2c5a9a" stroke="#fff" stroke-width="1.2"/><text y="3.3" text-anchor="middle" font-size="9" font-weight="700" fill="#fff">13</text></g><g transform="translate(213.9,20.7)"><circle r="7.5" fill="#2c5a9a" stroke="#fff" stroke-width="1.2"/><text y="3.3" text-anchor="middle" font-size="9" font-weight="700" fill="#fff">12</text></g><g transform="translate(61.2,55.3)"><circle r="7.5" fill="#2a8051" stroke="#fff" stroke-width="1.2"/><text y="3.3" text-anchor="middle" font-size="9" font-weight="700" fill="#fff">11</text></g><g transform="translate(222.7,49.2)"><circle r="7.5" fill="#b3412b" stroke="#fff" stroke-width="1.2"/><text y="3.3" text-anchor="middle" font-size="9" font-weight="700" fill="#fff">10</text></g><g transform="translate(358.0,136.4)"><circle r="7.5" fill="#17808f" stroke="#fff" stroke-width="1.2"/><text y="3.3" text-anchor="middle" font-size="9" font-weight="700" fill="#fff">9</text></g><g transform="translate(294.9,39.5)"><circle r="7.5" fill="#7d4aa8" stroke="#fff" stroke-width="1.2"/><text y="3.3" text-anchor="middle" font-size="9" font-weight="700" fill="#fff">8</text></g><g transform="translate(210.8,51.1)"><circle r="7.5" fill="#b3412b" stroke="#fff" stroke-width="1.2"/><text y="3.3" text-anchor="middle" font-size="9" font-weight="700" fill="#fff">7</text></g><g transform="translate(221.4,20.7)"><circle r="7.5" fill="#2c5a9a" stroke="#fff" stroke-width="1.2"/><text y="3.3" text-anchor="middle" font-size="9" font-weight="700" fill="#fff">6</text></g><g transform="translate(205.0,32.4)"><circle r="7.5" fill="#2c5a9a" stroke="#fff" stroke-width="1.2"/><text y="3.3" text-anchor="middle" font-size="9" font-weight="700" fill="#fff">5</text></g><g transform="translate(220.3,70.0)"><circle r="7.5" fill="#b3412b" stroke="#fff" stroke-width="1.2"/><text y="3.3" text-anchor="middle" font-size="9" font-weight="700" fill="#fff">4</text></g><g transform="translate(205.6,53.3)"><circle r="7.5" fill="#b8720e" stroke="#fff" stroke-width="1.2"/><text y="3.3" text-anchor="middle" font-size="9" font-weight="700" fill="#fff">3</text></g><g transform="translate(329.4,43.9)"><circle r="7.5" fill="#7d4aa8" stroke="#fff" stroke-width="1.2"/><text y="3.3" text-anchor="middle" font-size="9" font-weight="700" fill="#fff">2</text></g><g transform="translate(65.9,42.1)"><circle r="7.5" fill="#2a8051" stroke="#fff" stroke-width="1.2"/><text y="3.3" text-anchor="middle" font-size="9" font-weight="700" fill="#fff">1</text></g></svg><div class="nums"><div><b>14</b><span>economies on US tariff list</span></div><div><b>−6.2%</b><span>Kospi’s fall on the day</span></div><div><b>30</b><span>dead in Giza tanker fire</span></div><div><b>17th</b><span>power cut at Zaporizhzhia plant this year</span></div><div><b>A$740m</b><span>Australia–Solomons pact</span></div><div><b>1,000,000</b><span>SpaceX orbital modules approved</span></div></div></div><div class="briefs"><div class="bh">ALSO ON WED 25 NOV 2026</div><div class="list"><div><i class="n">12</i><b>Moscow</b> No comment on 700,000-dead report</div><div><i class="n">13</i><b>The Hague</b> 34 states: Russia, stop riot gas</div><div><i class="n">14</i><b>UK</b> RAF hides jets from drones</div><div><i class="n">15</i><b>London</b> Ofgem lifts energy price cap</div><div><i class="n">16</i><b>Eurostar</b> Surprise strike cancels trains</div><div><i class="n">17</i><b>Brussels</b> Puigdemont to return to Spain</div><div><i class="n">18</i><b>Knesset</b> Oct 7 inquiry bill advances</div><div><i class="n">19</i><b>Gaza</b> Rains threaten 1,000 shelters</div><div><i class="n">20</i><b>Amnesty</b> Asks ICC to probe Gaza births drop</div><div><i class="n">21</i><b>Ankara</b> Haftar’s first official Turkey visit</div><div><i class="n">22</i><b>Cape Town</b> "Farmgate" findings quashed</div><div><i class="n">23</i><b>Maiduguri</b> Tinubu vows peace in Borno</div><div><i class="n">24</i><b>Pyongyang</b> Swiss envoy expelled</div><div><i class="n">25</i><b>West Java</b> Dozens trapped in flooded mine</div><div><i class="n">26</i><b>Sydney</b> Ex-officer guilty of 2 murders</div><div><i class="n">27</i><b>Iowa</b> Army blows up 4,500 kg lead azide</div><div><i class="n">28</i><b>Madrid</b> Abrego Garcia lands after US exit</div><div><i class="n">29</i><b>Quito</b> US–Ecuador review joint operations</div><div><i class="n">30</i><b>Caracas</b> Clashes over $3 monthly wage</div><div><i class="n">31</i><b>Mexico</b> Mid-Nov inflation 3.96%</div><div><i class="n">32</i><b>Peru</b> El Niño swells shut ports</div><div><i class="n">33</i><b>Paraná</b> Storm toll 6; 104,000 no power</div><div><i class="n">34</i><b>Football</b> PSG 2–2 Roma, Sporting 2–2 Man Utd</div><div><i class="n">35</i><b>Tennis</b> Sinner has knee surgery</div></div></div></section><footer>Every story above happened or was first reported on <b>Wednesday 25 November 2026</b>, as reported by Al Jazeera, France 24 and ABC Australia. Drawings and map are original.</footer></body></html>
